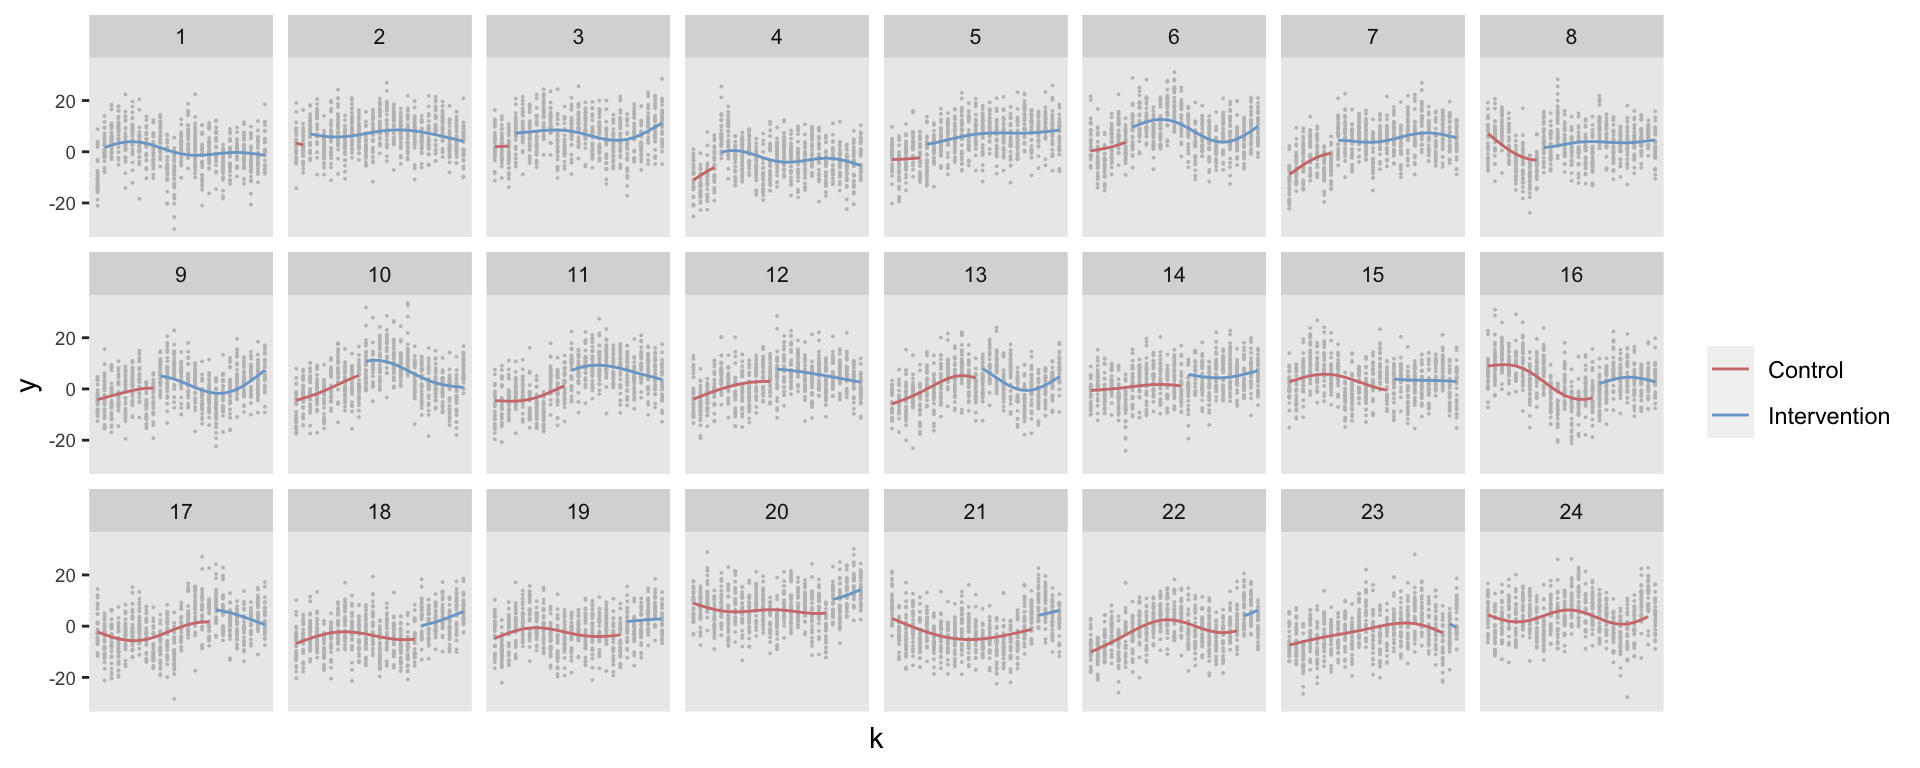
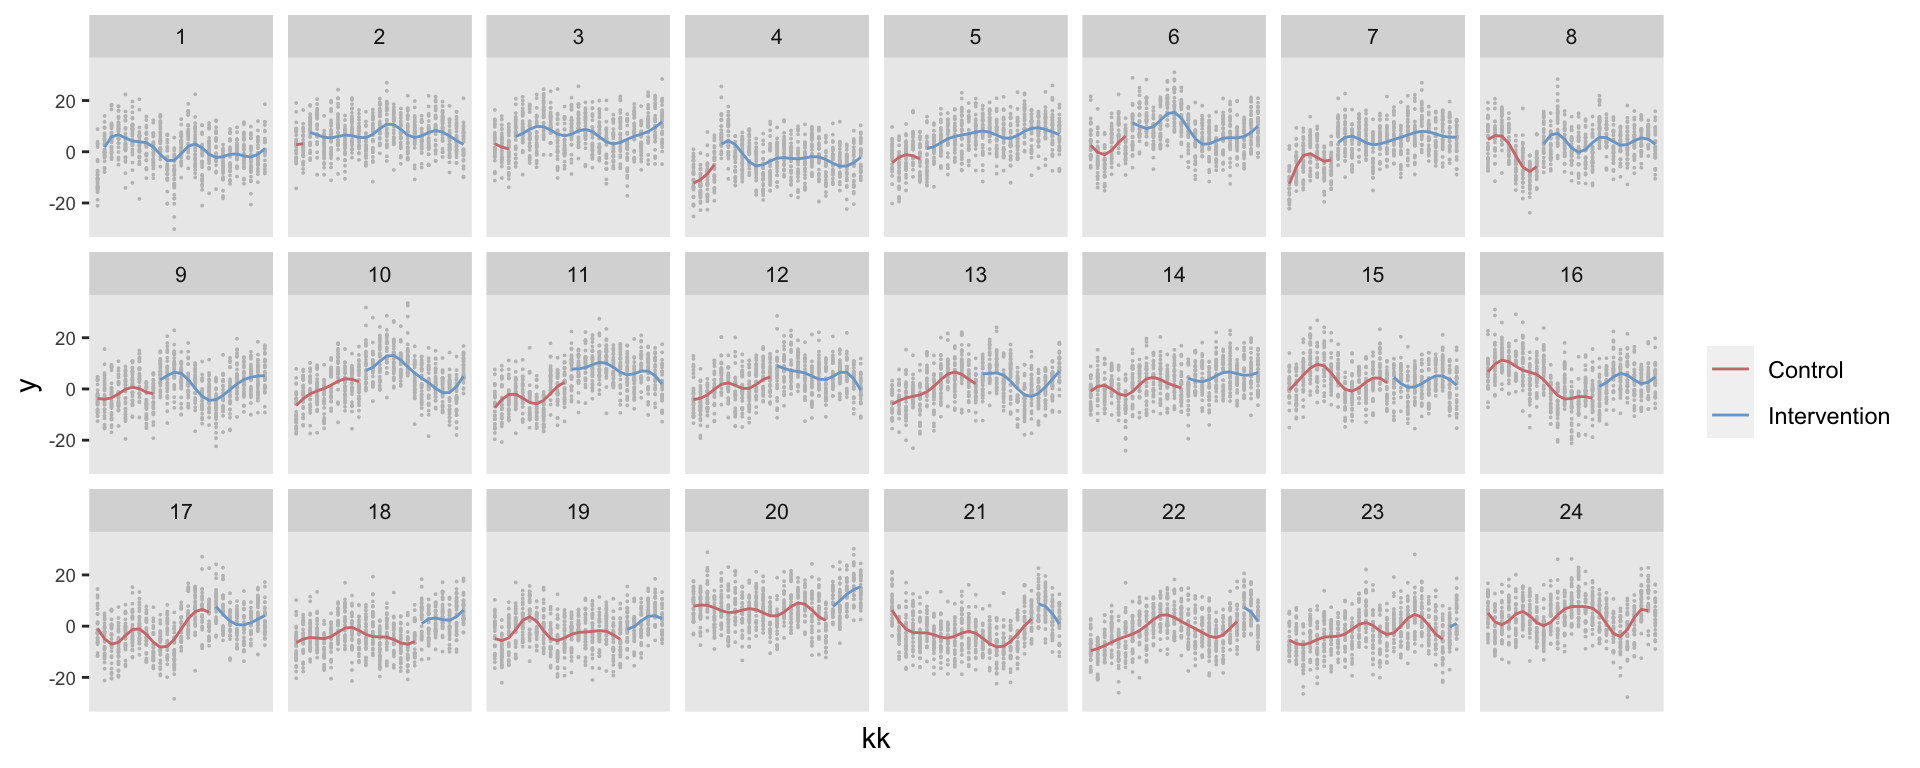
Updating post

diff --git a/content/post/2022-12-13-modeling-the-secular-trend-in-a-stepped-wedge-design/index.en.html b/content/post/2022-12-13-modeling-the-secular-trend-in-a-stepped-wedge-design/index.en.html
@@ -28,13 +28,13 @@ draft: true
 <p>where <span class="math inline">\(Y_{ijk}\)</span> is the (continuous) outcome of individual <span class="math inline">\(i\)</span> in cluster <span class="math inline">\(j\)</span> during time period <span class="math inline">\(k\)</span>. <span class="math inline">\(a_j\)</span> is the random intercept for site <span class="math inline">\(j\)</span>, and we assume that <span class="math inline">\(a_j \sim N(0, \sigma^2_a)\)</span>. <span class="math inline">\(A_{jk}\)</span> is the intervention indicator for site <span class="math inline">\(j\)</span> during time period <span class="math inline">\(k\)</span>. <span class="math inline">\(\beta_k\)</span> is a period-specific effect. And <span class="math inline">\(e_{ijk}\)</span> is the individual level effect.</p>
 <p>In the study that is motivating all of this, the situation is different in a key way.The intervention can only be implemented at one site a time (so that the number of waves equals the number of sites), leading to this alternative schematic:</p>
 <p><img src="images/24_waves.png" style="width:75.0%" /></p>
-<p>The challenge under this scenario, is that <span class="math inline">\(k\)</span> (the number of periods) is starting to get quite large, requiring us to estimate a large number of period specific effects <span class="math inline">\(\beta_k\)</span>. In addition, the periods are actually shorter, so we have less information available to estimate those period effects. An alternative approach, as you may have anticpated, is to smooth the secular trend, using a model that looks like this:</p>
+<p>The challenge under this scenario, is that <span class="math inline">\(k\)</span> (the number of periods) is starting to get quite large, requiring us to estimate a large number of period specific effects <span class="math inline">\(\beta_k\)</span>. In addition, the periods are actually shorter, so we have less information available to estimate those period effects. An alternative approach, as you may have anticipated, is to smooth the secular trend, using a model that looks like this:</p>
 <p><span class="math display">\[
-  Y_{ijk} = a_{j} + s(k) + \delta A_{jk} + e_{ijk}
+Y_{ijk} = a_{j} + s(k) + \delta A_{jk} + e_{ijk}
 \]</span></p>
 <p>where <span class="math inline">\(s(.)\)</span> is a smooth function of time. And by using a smooth function, we can take this one step further and specify a site-specific smoothing function <span class="math inline">\(s_j(.)\)</span>:</p>
 <p><span class="math display">\[
-  Y_{ijk} = a_{j} + s_j(k) + \delta A_{jk} + e_{ijk}
+Y_{ijk} = a_{j} + s_j(k) + \delta A_{jk} + e_{ijk}
 \]</span></p>
 <p>So, we will use either splines or generalized additive models to estimate the curve, which will allow us to control for the period effect. By smoothing the function, we are assuming that the measurements closer in time are more highly correlated that measurements further apart.</p>
 </div>
@@ -42,16 +42,19 @@ draft: true
 <h3>Data generation process</h3>
 <p>Here is the data generation process that we will use to explore the different models:</p>
 <p><span class="math display">\[
-  Y_{ijk} \sim N(\mu_{ijk}, \sigma^2 = 40)\\
+Y_{ijk} \sim N(\mu_{ijk}, \sigma^2 = 40) \\
 \mu_{ijk} = a_{j} + b_{jk} + \delta A_{jk} \\
 a_j \sim N(0, \sigma^2_a = 9) \\
 b_{jk} \sim N(0, \Sigma_b) \\
 \delta = 5\\
 \]</span></p>
 <p>In this data generation process, the time effect will <em>not</em> be explicitly smooth, but the underlying covariance structure used to generate the period effects will induce some level of smoothness. This is similar to what was described in the previous <a href="https://www.rdatagen.net/post/2022-11-01-modeling-secular-trend-in-crt-using-gam/">post</a>. As in that earlier example, <span class="math inline">\(b_{jk}\)</span> is a site-specific time period effect for each time period <span class="math inline">\(k\)</span>; the vector of cluster-time effects <span class="math inline">\(\mathbf{b_j} \sim N(0, \Sigma_b)\)</span>, where <span class="math inline">\(\Sigma_b = DRD\)</span> is a <span class="math inline">\(25 \times 25\)</span> covariance matrix based on a diagonal matrix <span class="math inline">\(D\)</span> and an auto-regressive correlation structure <span class="math inline">\(R\)</span>:</p>
-<p><span class="math display">\[ D = 4 * I_{25 \times 25}\]</span>
-and</p>
-<p><span class="math display">\[ R =\begin{bmatrix}
+<p><span class="math display">\[
+D = 4 * I_{25 \times 25}
+\]</span></p>
+<p>and</p>
+<p><span class="math display">\[
+R =\begin{bmatrix}
 1 &amp; \rho &amp; \rho^2 &amp; \dots &amp; \rho^{24} \\
 \rho &amp; 1 &amp; \rho &amp; \dots &amp; \rho^{23} \\
 \rho^2 &amp; \rho &amp; 1 &amp; \dots &amp; \rho^{22} \\
@@ -63,7 +66,7 @@ and</p>
 <pre class="r"><code>library(simstudy)
 library(ggplot2)
 library(data.table)
-library(gamm4)
+library(mgcv)
 library(lme4)
 library(splines)</code></pre>
 <p>The data definitions for <span class="math inline">\(a_j\)</span>, <span class="math inline">\(b_{jk}\)</span>, and <span class="math inline">\(Y_{ijk}\)</span> are established first:</p>
@@ -76,19 +79,19 @@ defOut &lt;- defDataAdd(varname = &quot;y&quot;, formula = &quot;a + b + 5 * A&q
 <pre class="r"><code>set.seed(1234)
 
 ds &lt;- genData(24, def, id = &quot;site&quot;)
-ds &lt;- addPeriods(ds, 25, &quot;site&quot;, perName = &quot;k&quot;)
+ds &lt;- addPeriods(ds, 25, &quot;site&quot;, perName = &quot;kk&quot;)
 
 ds &lt;- addCorGen(dtOld = ds, idvar = &quot;site&quot;, 
                 rho = 0.6, corstr = &quot;ar1&quot;,
                 dist = &quot;normal&quot;, param1 = &quot;mu_b&quot;, param2 = &quot;s2_b&quot;, cnames = &quot;b&quot;)
 
 ds &lt;- trtStepWedge(ds, &quot;site&quot;, nWaves = 24, lenWaves = 1, startPer = 1, 
-                   grpName = &quot;A&quot;, perName = &quot;k&quot;)
+                   grpName = &quot;A&quot;, perName = &quot;kk&quot;)
 
 ds$site &lt;- as.factor(ds$site)
 
 ds</code></pre>
-<pre><code>##      site  k         a mu_b s2_b timeID          b startTrt A
+<pre><code>##      site kk         a mu_b s2_b timeID          b startTrt A
 ##   1:    1  0 -3.621197    0   16      1 -3.6889733        1 0
 ##   2:    1  1 -3.621197    0   16      2 -0.4945674        1 1
 ##   3:    1  2 -3.621197    0   16      3  3.5849760        1 1
@@ -109,42 +112,39 @@ dd &lt;- addColumns(defOut, dd)</code></pre>
 <h3>Model estimation</h3>
 <div id="gam-with-site-specific-smoother" class="section level4">
 <h4>GAM with site-specific smoother</h4>
-<pre class="r"><code>gamfit &lt;- gamm4(y ~ A + s(k, site, bs = &quot;fs&quot;, k = 5), data = dd)  
-
-summary(gamfit$mer)</code></pre>
-<pre><code>## Linear mixed model fit by REML [&#39;lmerMod&#39;]
+<pre class="r"><code>gamfit &lt;- gam(y ~ A + s(kk, site, bs = &quot;fs&quot;, k = 10), data = dd)
+summary(gamfit)</code></pre>
+<pre><code>## 
+## Family: gaussian 
+## Link function: identity 
 ## 
-## REML criterion at convergence: 120914.9
+## Formula:
+## y ~ A + s(kk, site, bs = &quot;fs&quot;, k = 10)
 ## 
-## Scaled residuals: 
-##     Min      1Q  Median      3Q     Max 
-## -4.3696 -0.6704  0.0036  0.6768  3.9369 
+## Parametric coefficients:
+##             Estimate Std. Error t value Pr(&gt;|t|)    
+## (Intercept)  -0.2609     0.5883  -0.444    0.657    
+## A             4.7112     0.4107  11.472   &lt;2e-16 ***
+## ---
+## Signif. codes:  0 &#39;***&#39; 0.001 &#39;**&#39; 0.01 &#39;*&#39; 0.05 &#39;.&#39; 0.1 &#39; &#39; 1
 ## 
-## Random effects:
-##  Groups   Name      Variance Std.Dev.
-##  Xr       s(k,site) 244.21   15.627  
-##  Xr.0     s(k,site) 408.60   20.214  
-##  Xr.1     s(k,site) 130.89   11.441  
-##  Residual            47.19    6.869  
-## Number of obs: 18000, groups:  Xr, 72; Xr.0, 24; Xr.1, 24
+## Approximate significance of smooth terms:
+##            edf Ref.df     F p-value    
+## s(kk,site) 230    239 33.13  &lt;2e-16 ***
+## ---
+## Signif. codes:  0 &#39;***&#39; 0.001 &#39;**&#39; 0.01 &#39;*&#39; 0.05 &#39;.&#39; 0.1 &#39; &#39; 1
 ## 
-## Fixed effects:
-##              Estimate Std. Error t value
-## X(Intercept)  -0.3448     0.5708  -0.604
-## XA             4.8892     0.3069  15.931
-## 
-## Correlation of Fixed Effects:
-##    X(Int)
-## XA -0.209</code></pre>
+## R-sq.(adj) =  0.361   Deviance explained = 36.9%
+## GCV = 43.886  Scale est. = 43.321    n = 18000</code></pre>
 <p><img src="{{< blogdown/postref >}}index.en_files/figure-html/unnamed-chunk-7-1.png" width="960" /></p>
 </div>
 <div id="mixed-effects-model-with-site-specific-natural-cubic-spline" class="section level4">
 <h4>Mixed effects model with site-specific natural cubic spline</h4>
-<pre class="r"><code>dd[, normk := (k - min(k))/(max(k) - min(k))]
+<pre class="r"><code>dd[, normk := (kk - min(kk))/(max(kk) - min(kk))]
 knots &lt;- c(.2, .4, .6, .8)
 
-fitlme &lt;- lmer(y ~ A + ( ns(normk, knots = knots) - 1 | site)  , data = dd) # 4
-summary(fitlme)</code></pre>
+fitlme_s &lt;- lmer(y ~ A + ( ns(normk, knots = knots) - 1 | site)  , data = dd) # 4
+summary(fitlme_s)</code></pre>
 <pre><code>## Linear mixed model fit by REML [&#39;lmerMod&#39;]
 ## Formula: y ~ A + (ns(normk, knots = knots) - 1 | site)
 ##    Data: dd
@@ -174,10 +174,10 @@ summary(fitlme)</code></pre>
 ##   (Intr)
 ## A -0.094</code></pre>
 <p><img src="{{< blogdown/postref >}}index.en_files/figure-html/unnamed-chunk-9-1.png" width="960" /></p>
-<pre class="r"><code>fitlme2 &lt;- lmer(y ~ A + factor(k) - 1 + (1|site)  , data = dd)
-summary(fitlme2)</code></pre>
+<pre class="r"><code>fitlme_k &lt;- lmer(y ~ A + factor(kk) - 1 + (1|site)  , data = dd)
+summary(fitlme_k)</code></pre>
 <pre><code>## Linear mixed model fit by REML [&#39;lmerMod&#39;]
-## Formula: y ~ A + factor(k) - 1 + (1 | site)
+## Formula: y ~ A + factor(kk) - 1 + (1 | site)
 ##    Data: dd
 ## 
 ## REML criterion at convergence: 122676.6
@@ -193,32 +193,41 @@ summary(fitlme2)</code></pre>
 ## Number of obs: 18000, groups:  site, 24
 ## 
 ## Fixed effects:
-##             Estimate Std. Error t value
-## A            5.44768    0.18771  29.022
-## factor(k)0  -1.72745    0.65908  -2.621
-## factor(k)1  -2.64486    0.65912  -4.013
-## factor(k)2  -1.07202    0.65926  -1.626
-## factor(k)3   0.85293    0.65949   1.293
-## factor(k)4  -0.46121    0.65982  -0.699
-## factor(k)5   0.23698    0.66024   0.359
-## factor(k)6  -0.36443    0.66074  -0.552
-## factor(k)7   0.01004    0.66135   0.015
-## factor(k)8   0.11976    0.66204   0.181
-## factor(k)9  -0.65182    0.66282  -0.983
-## factor(k)10  0.37542    0.66370   0.566
-## factor(k)11  0.39040    0.66467   0.587
-## factor(k)12  0.26334    0.66573   0.396
-## factor(k)13  1.48157    0.66687   2.222
-## factor(k)14  0.32006    0.66811   0.479
-## factor(k)15 -0.91115    0.66944  -1.361
-## factor(k)16 -0.91487    0.67085  -1.364
-## factor(k)17 -1.92077    0.67235  -2.857
-## factor(k)18 -1.86880    0.67394  -2.773
-## factor(k)19 -2.25838    0.67562  -3.343
-## factor(k)20 -1.13609    0.67738  -1.677
-## factor(k)21 -1.36548    0.67923  -2.010
-## factor(k)22 -0.91023    0.68117  -1.336
-## factor(k)23 -0.52221    0.68318  -0.764
-## factor(k)24 -1.00048    0.68529  -1.460</code></pre>
+##              Estimate Std. Error t value
+## A             5.44768    0.18771  29.022
+## factor(kk)0  -1.72745    0.65908  -2.621
+## factor(kk)1  -2.64486    0.65912  -4.013
+## factor(kk)2  -1.07202    0.65926  -1.626
+## factor(kk)3   0.85293    0.65949   1.293
+## factor(kk)4  -0.46121    0.65982  -0.699
+## factor(kk)5   0.23698    0.66024   0.359
+## factor(kk)6  -0.36443    0.66074  -0.552
+## factor(kk)7   0.01004    0.66135   0.015
+## factor(kk)8   0.11976    0.66204   0.181
+## factor(kk)9  -0.65182    0.66282  -0.983
+## factor(kk)10  0.37542    0.66370   0.566
+## factor(kk)11  0.39040    0.66467   0.587
+## factor(kk)12  0.26334    0.66573   0.396
+## factor(kk)13  1.48157    0.66687   2.222
+## factor(kk)14  0.32006    0.66811   0.479
+## factor(kk)15 -0.91115    0.66944  -1.361
+## factor(kk)16 -0.91487    0.67085  -1.364
+## factor(kk)17 -1.92077    0.67235  -2.857
+## factor(kk)18 -1.86880    0.67394  -2.773
+## factor(kk)19 -2.25838    0.67562  -3.343
+## factor(kk)20 -1.13609    0.67738  -1.677
+## factor(kk)21 -1.36548    0.67923  -2.010
+## factor(kk)22 -0.91023    0.68117  -1.336
+## factor(kk)23 -0.52221    0.68318  -0.764
+## factor(kk)24 -1.00048    0.68529  -1.460</code></pre>
+<pre class="r"><code>dres[, .(lmek = mean(est.lmek), lmes = mean(est.lmes), gam = mean(est.gam))]</code></pre>
+<pre><code>##       lmek     lmes      gam
+## 1: 5.35507 5.260427 5.280913</code></pre>
+<pre class="r"><code>dres[, .(lmek = mean(se.lmek), lmes = mean(se.lmes), gam = mean(se.gam))]</code></pre>
+<pre><code>##       lmek      lmes       gam
+## 1: 0.18741 0.3039803 0.3055636</code></pre>
+<pre class="r"><code>dres[, .(lmek = sd(est.lmek), lmes = sd(est.lmes), gam = sd(est.gam))]</code></pre>
+<pre><code>##         lmek      lmes       gam
+## 1: 0.7960888 0.8607204 0.8716813</code></pre>
 </div>
 </div>
